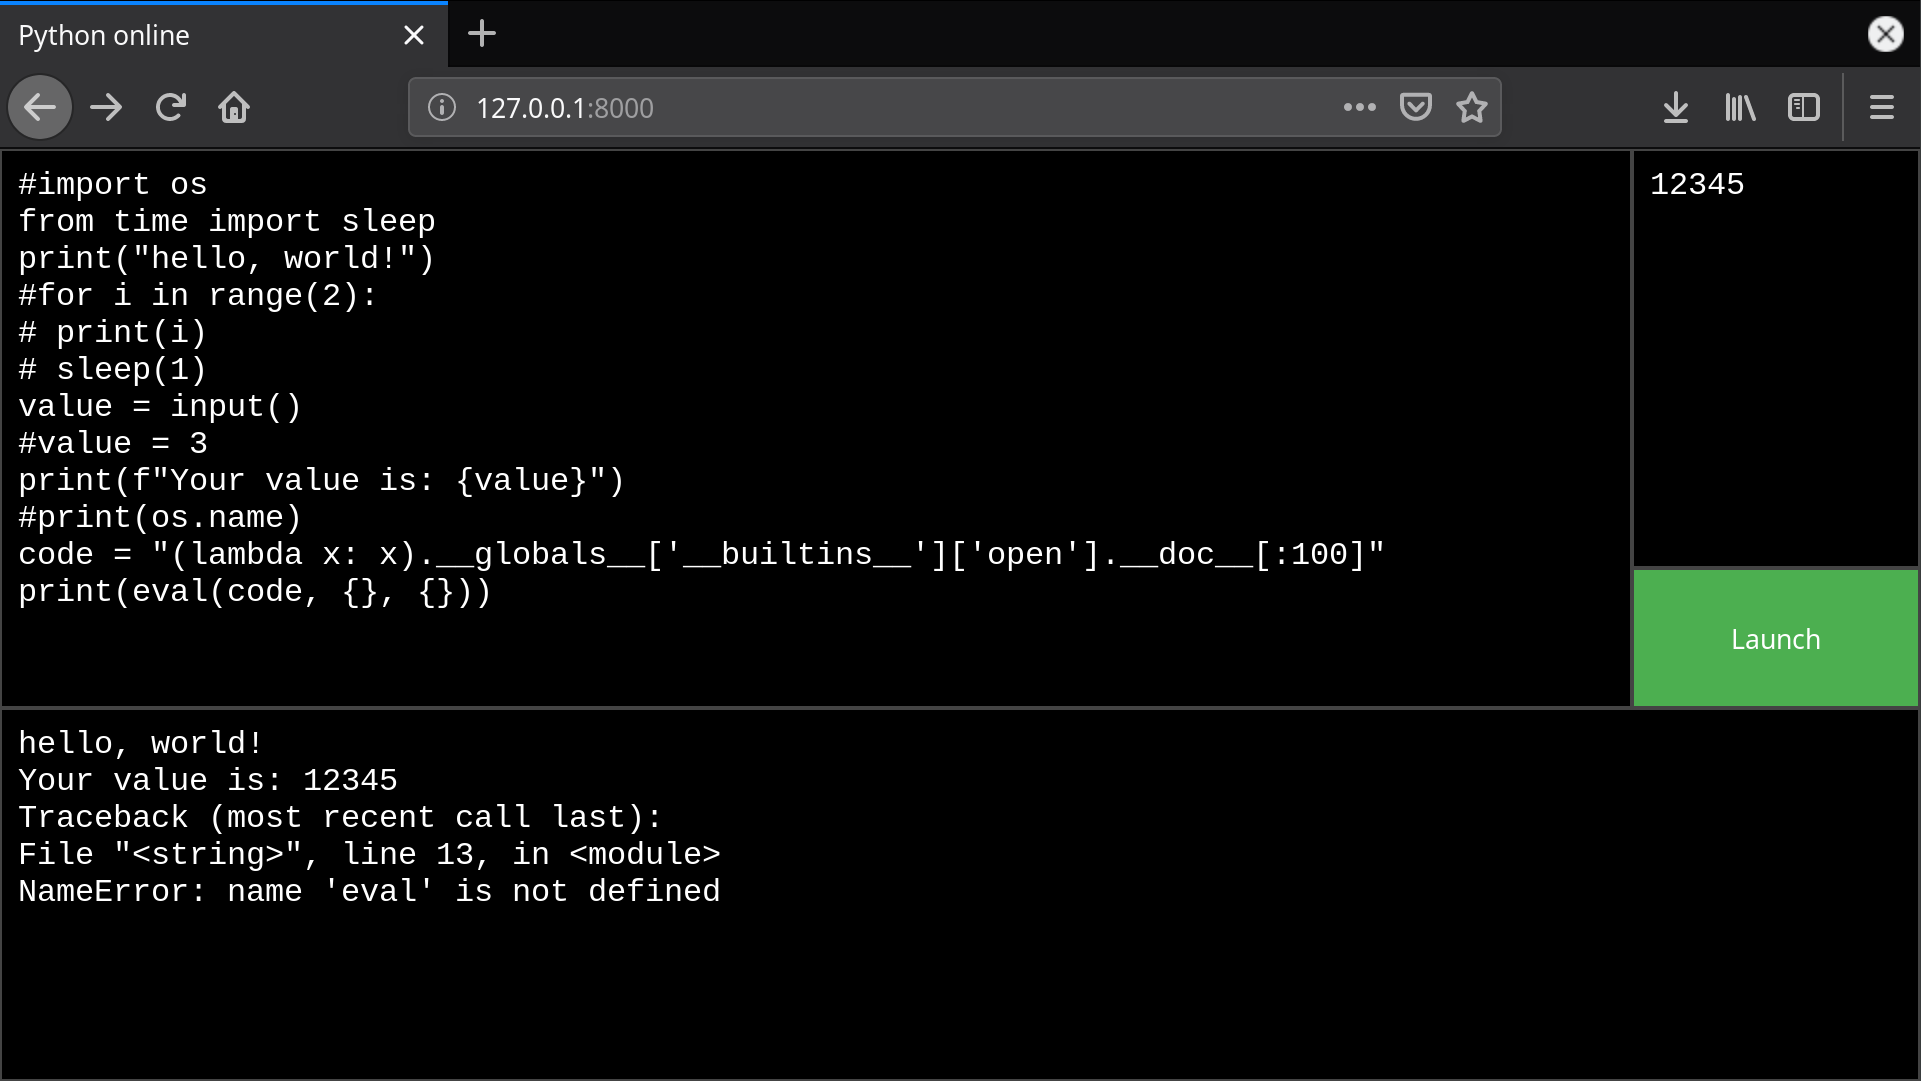
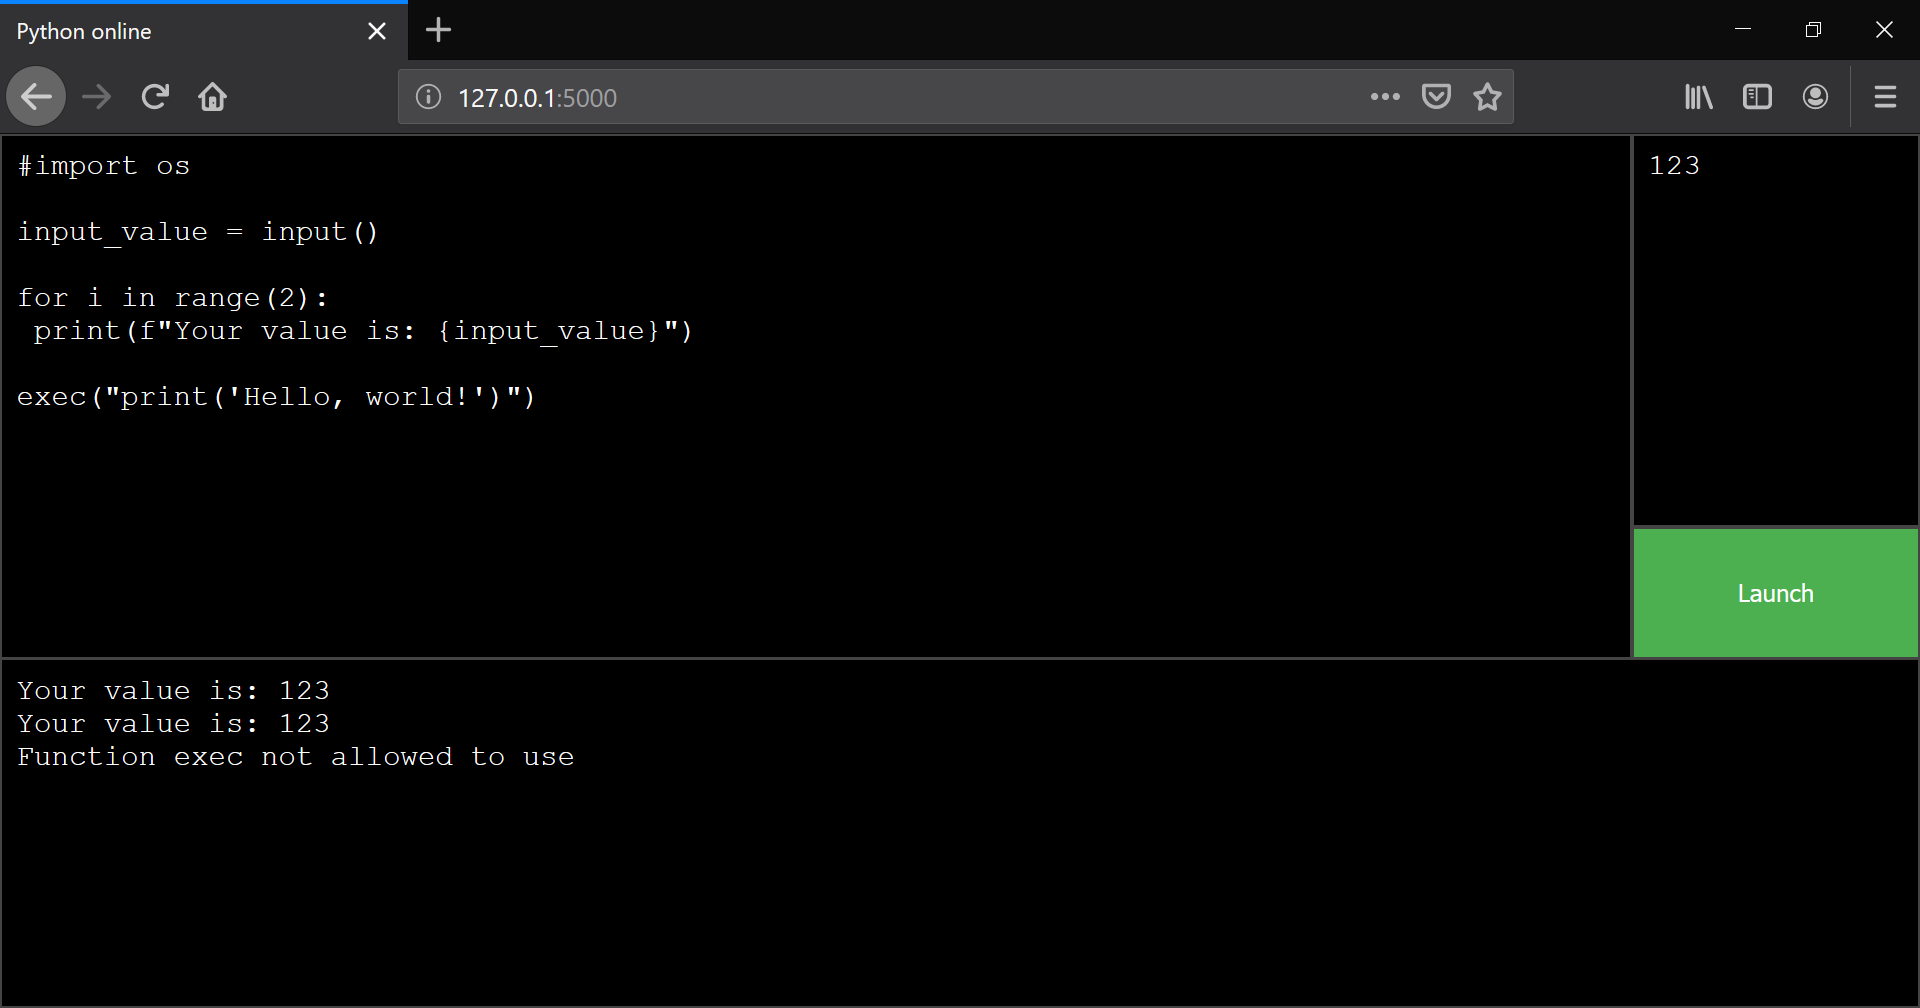
changed example

diff --git a/flaskr/templates/index.html b/flaskr/templates/index.html
@@ -11,21 +11,17 @@
     <form id="panels" name="form" method="post">
         <div class="code">
             <textarea spellcheck="false" name="input_code">#import os
-from time import sleep
-print("hello, world!")
-#for i in range(2):
-# print(i)
-# sleep(1)
-value = input()
-#value = 3
-print(f"Your value is: {value}")
-#print(os.name)
-code = "(lambda x: x).__globals__['__builtins__']['open'].__doc__[:100]"
-print(eval(code, {}, {}))
+
+input_value = input()
+
+for i in range(2):
+ print(f"Your value is: {input_value}")
+
+exec("print('Hello, world!')")
 </textarea>
         </div>
         <div class="stdin">
-            <textarea spellcheck="false" name="input_stdin">12345</textarea>
+            <textarea spellcheck="false" name="input_stdin">123</textarea>
         </div>
         <div class="control">
             <input type="button" value="Launch" onclick="launch()">
